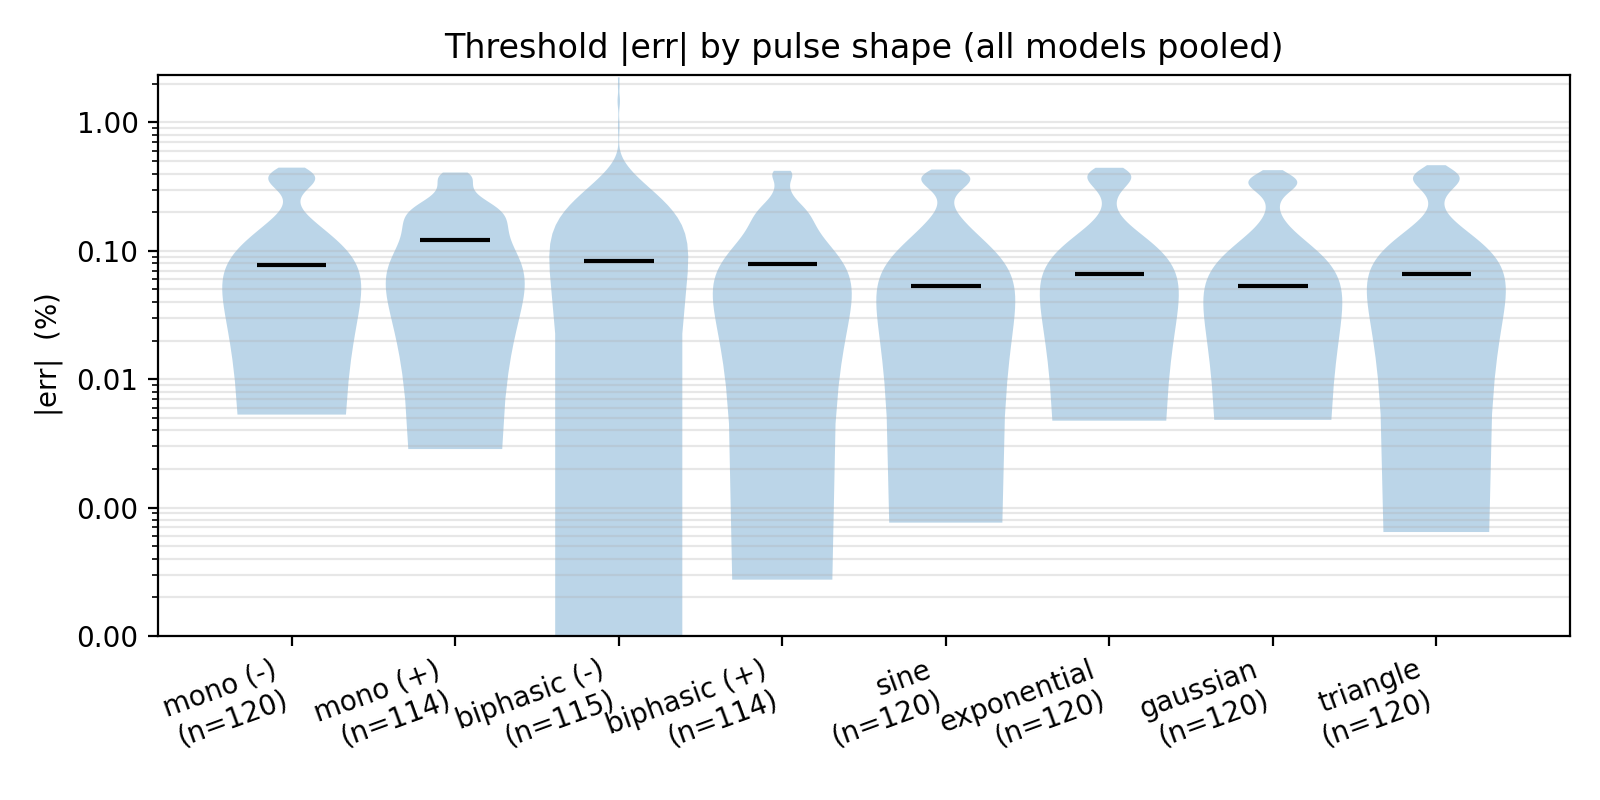
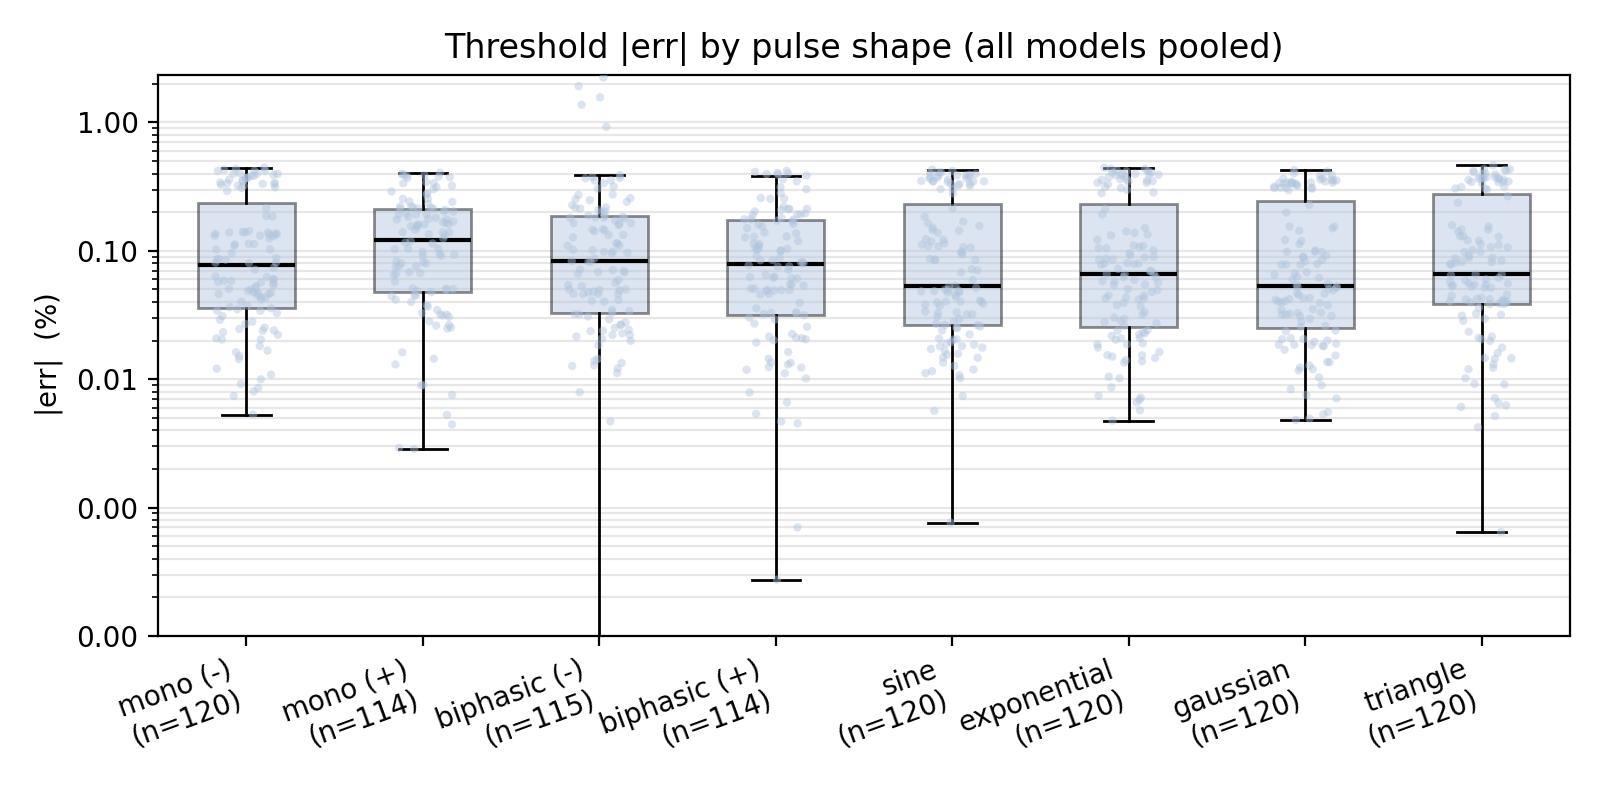
validation figures v2: |mA| scatter + boxplot-with-scatter
Two user-requested iterations:

(1) fig1 scatter now uses ABSOLUTE thresholds (|mA|) instead of
    signed values.  Sign is set deterministically by the pulse-shape
    key and is identical between jaxon and pyfibers by construction
    -- so plotting |mA| collapses all data into the positive quadrant
    without losing information, and it lets us put both axes on log
    scale.  Result: the agreement is now visible across four decades
    (~0.06 to ~450 mA) on log-log axes instead of being crammed near
    the origin on a linear plot.

(2) figs 2, 3, 4a swap violinplot -> boxplot with jittered scatter
    overlay.  Reads better than a violin on log-scaled error data
    because:
      * the box bounds are exact percentiles (no KDE smoothing
        extending below the data minimum, which made the violins
        taper visually to 0)
      * the individual points are visible
      * outliers stand out clearly (e.g. the ~1-2% tail in Rattay
        and the wider <1.5um Sundt distribution)

Headline result unchanged: R^2 = 0.99999, median |err| = 0.08% over
943 finite (model, diameter, pulse, PW) conditions.

Changed region(s): [[0.0625, 0.1875, 0.9688, 0.9375], [0.5, 0.8125, 0.9375, 0.9375]]

diff --git a/experiments_v2/figures_validation.py b/experiments_v2/figures_validation.py
@@ -126,14 +126,17 @@ def _gather_all_rows() -> list[dict]:
 # ── Plot 1: scatter of all thresholds ────────────────────────────────────────
 
 def make_fig1_scatter(rows: list[dict]) -> Path:
+    """All thresholds are plotted as ABSOLUTE values (|mA|) so cathodic
+    and anodic responses live in the same positive quadrant -- the
+    validation question is whether the magnitudes agree, not the
+    polarity (the sign is set deterministically by the pulse-shape key
+    in the JSON and is identical between jaxon and pyfibers by
+    construction).
+    """
     fig, ax = plt.subplots(figsize=(5.5, 5.5))
-    # Plot per model so the colour legend is readable.  Drop NaN/non-finite
-    # entries before plotting -- a few SD rows in the Sundt and Rattay
-    # bundles contain NaN thresholds where the bisection didn't converge
-    # within the allotted current range.
     all_jax, all_py = [], []
     for m in MODELS:
-        pairs = [(r["pyfibers_mA"], r["jax_mA"]) for r in rows
+        pairs = [(abs(r["pyfibers_mA"]), abs(r["jax_mA"])) for r in rows
                   if r["model"] == m
                   and np.isfinite(r["pyfibers_mA"])
                   and np.isfinite(r["jax_mA"])
@@ -158,13 +161,14 @@ def make_fig1_scatter(rows: list[dict]) -> Path:
     r2 = 1.0 - ss_res / ss_tot
     mape = float(np.median(np.abs((y_all - x_all) / x_all))) * 100.0
 
-    ax.set_xlabel("pyFibers / NEURON threshold (mA)")
-    ax.set_ylabel("jaxon threshold (mA)")
+    ax.set_xlabel("pyFibers / NEURON threshold $|$mA$|$")
+    ax.set_ylabel("jaxon threshold $|$mA$|$")
+    ax.set_xscale("log"); ax.set_yscale("log")
     ax.set_title(f"Activation thresholds (n = {len(x_all)} finite pairs)\n"
                   f"$R^2$ = {r2:.5f},  median $|{{\\rm err}}|$ = {mape:.2f}%")
     ax.legend(loc="upper left", frameon=False)
     ax.set_aspect("equal", adjustable="datalim")
-    ax.grid(True, alpha=0.3)
+    ax.grid(True, alpha=0.3, which="both")
     fig.tight_layout()
     out = OUT_DIR / "fig1_scatter_thresholds.png"
     fig.savefig(out, dpi=200)
@@ -174,16 +178,34 @@ def make_fig1_scatter(rows: list[dict]) -> Path:
 
 # ── Plot 2: violin |err_pct| per model ───────────────────────────────────────
 
-def _violin(ax, groups: list[np.ndarray], labels: list[str],
-             colours: list[str] | None = None) -> None:
-    parts = ax.violinplot(groups, showmedians=True, showextrema=False,
-                            widths=0.85)
-    if colours is not None:
-        for body, col in zip(parts["bodies"], colours):
-            body.set_facecolor(col)
-            body.set_alpha(0.55)
-            body.set_edgecolor("black")
-    parts["cmedians"].set_edgecolor("black")
+def _boxplot_with_scatter(ax, groups: list[np.ndarray], labels: list[str],
+                            colours: list[str] | None = None,
+                            rng_seed: int = 0) -> None:
+    """Boxplot with median + IQR, individual points jittered over the top.
+    Reads better than a violin on log-scaled error data because the box
+    bounds are exact percentiles and the scatter shows the distribution
+    shape directly."""
+    if colours is None:
+        colours = ["lightsteelblue"] * len(groups)
+    bp = ax.boxplot(
+        groups, widths=0.55, showfliers=False, patch_artist=True,
+        boxprops=dict(linewidth=1.0),
+        medianprops=dict(color="black", linewidth=1.5),
+        whiskerprops=dict(linewidth=1.0),
+        capprops=dict(linewidth=1.0),
+    )
+    for patch, col in zip(bp["boxes"], colours):
+        patch.set_facecolor(col); patch.set_alpha(0.45)
+        patch.set_edgecolor("black")
+    # Jittered scatter on top.
+    rng = np.random.default_rng(rng_seed)
+    for i, (arr, col) in enumerate(zip(groups, colours)):
+        if arr.size == 0:
+            continue
+        jitter = rng.uniform(-0.18, 0.18, size=arr.size)
+        ax.scatter(np.full(arr.size, i + 1) + jitter, arr,
+                    s=9, alpha=0.45, color=col, edgecolors="none",
+                    zorder=3)
     ax.set_xticks(range(1, len(labels) + 1))
     ax.set_xticklabels(labels, rotation=20, ha="right")
 
@@ -198,7 +220,7 @@ def make_fig2_by_model(rows: list[dict]) -> Path:
         groups.append(arr); labels.append(f"{m}\n(n={arr.size})")
         cols.append(MODEL_COLOURS[m])
     fig, ax = plt.subplots(figsize=(6.5, 4.0))
-    _violin(ax, groups, labels, cols)
+    _boxplot_with_scatter(ax, groups, labels, cols)
     ax.set_ylabel(r"$|\mathrm{err}|$  (%)")
     ax.set_ylim(bottom=1e-4)
     ax.set_title("Threshold |err| by model")
@@ -224,7 +246,7 @@ def make_fig3_by_pulse(rows: list[dict]) -> Path:
         groups.append(arr)
         labels.append(f"{PULSE_PRETTY.get(p, p)}\n(n={arr.size})")
     fig, ax = plt.subplots(figsize=(8.0, 4.0))
-    _violin(ax, groups, labels)
+    _boxplot_with_scatter(ax, groups, labels)
     ax.set_ylabel(r"$|\mathrm{err}|$  (%)")
     ax.set_ylim(bottom=1e-4)
     ax.set_title("Threshold |err| by pulse shape (all models pooled)")
@@ -251,7 +273,7 @@ def make_fig4a_by_diameter(rows: list[dict]) -> Path:
         groups.append(arr)
         labels.append(f"{lab}\n(n={arr.size})")
     fig, ax = plt.subplots(figsize=(7.5, 4.2))
-    _violin(ax, groups, labels)
+    _boxplot_with_scatter(ax, groups, labels)
     ax.set_ylabel(r"$|\mathrm{err}|$  (%)")
     ax.set_ylim(bottom=1e-4)
     ax.set_title("Threshold |err| by fibre diameter (all models pooled)")
